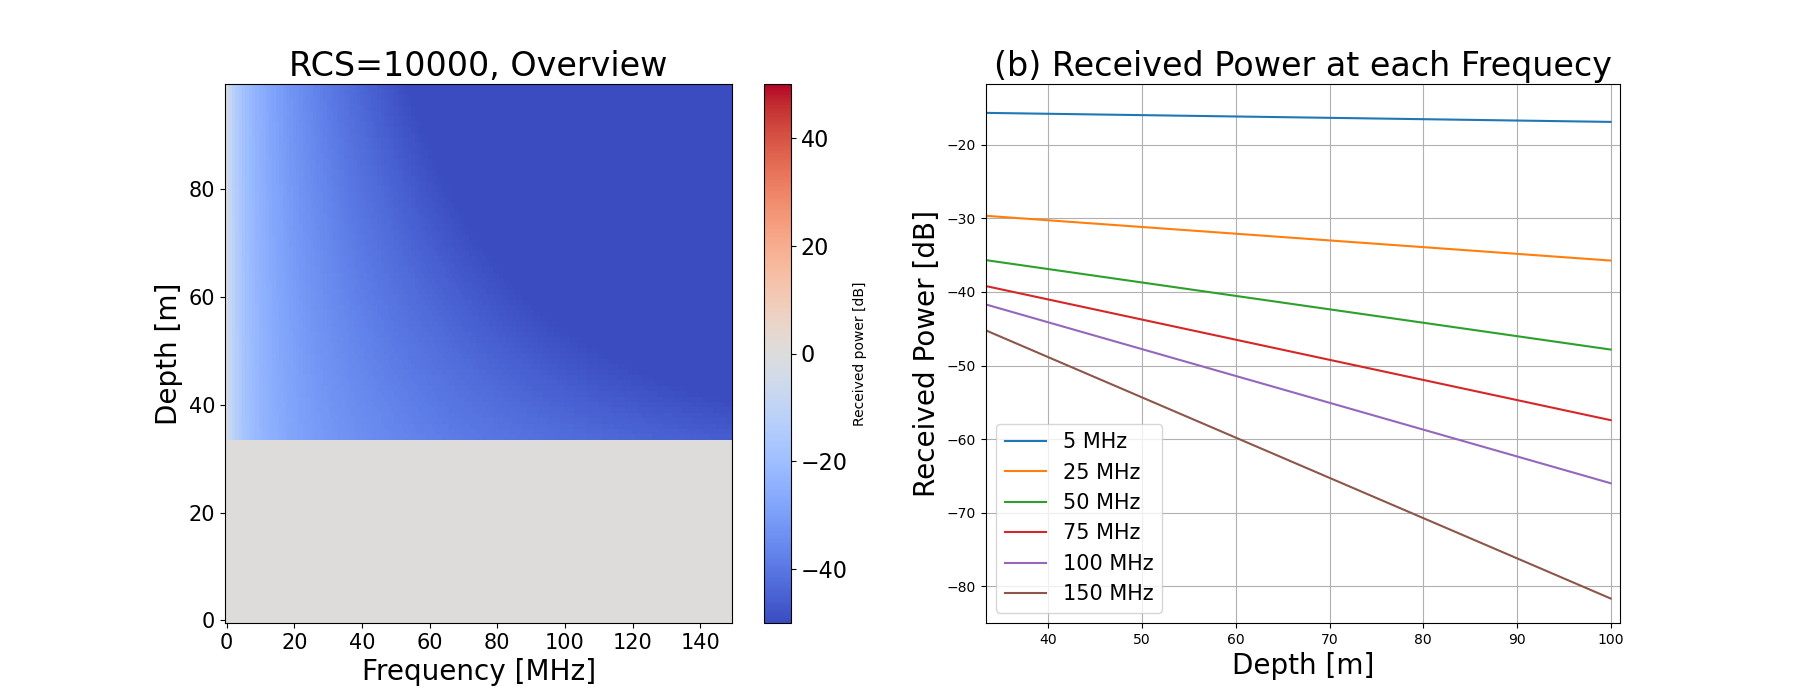
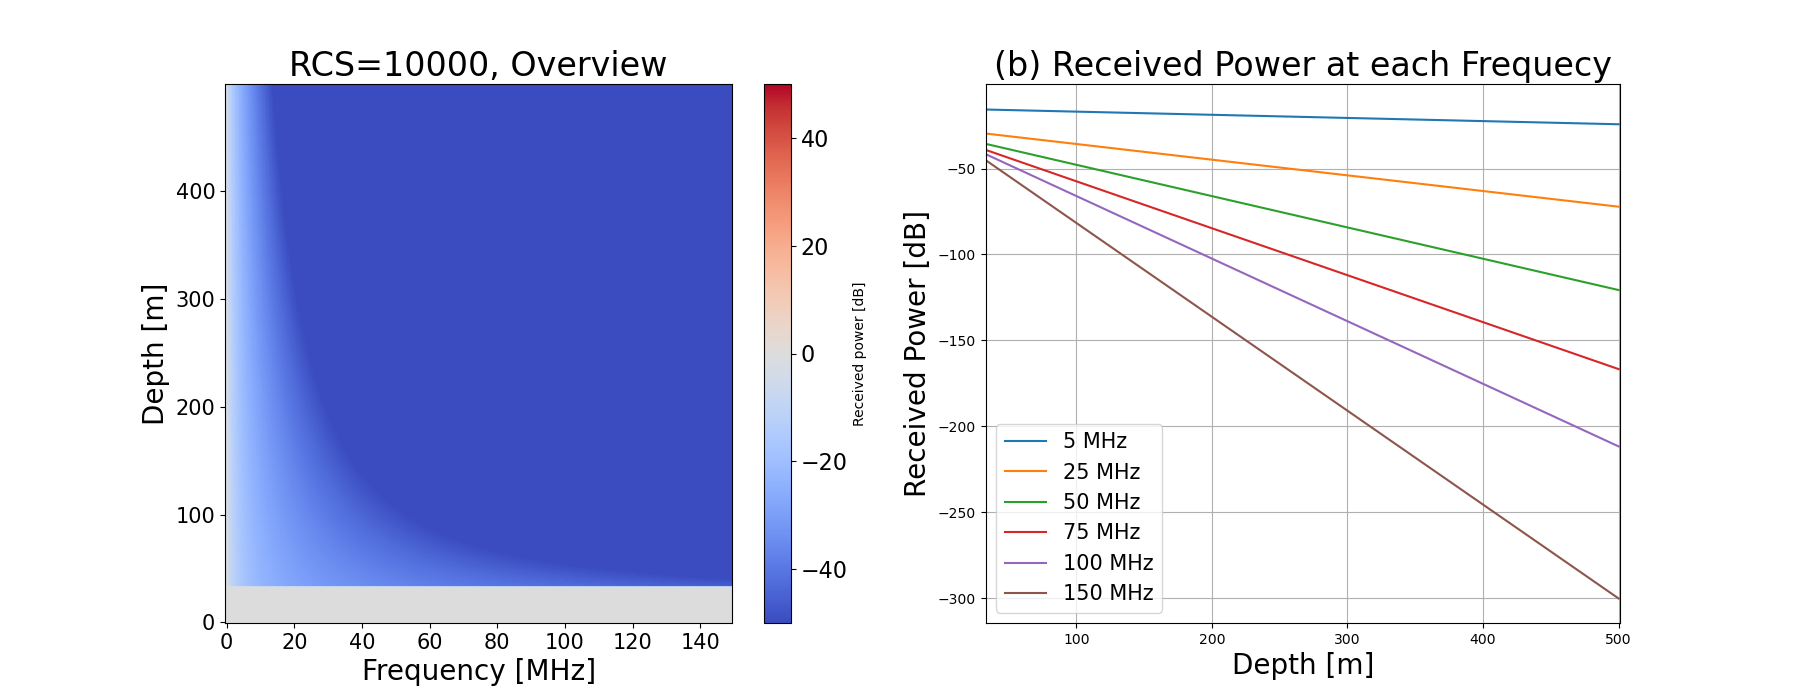
LRS特化の計算

diff --git a/detectability.py b/detectability.py
@@ -5,7 +5,7 @@ import matplotlib.pyplot as plt
 import numpy as np
 
 # 選択するパラメータファイルの指定
-params_file = "rover"  # LRS/RoPeR/RIMFAX/rover
+params_file = "LRS"  # LRS/RoPeR/RIMFAX/rover
 
 # パラメータファイルの読み込み
 with open('params/'+params_file + '_params.json') as f:
@@ -22,7 +22,7 @@ epsilon_r = params['epsilon_r']  # 地面の比誘電率
 epsilon_0 = params['epsilon_0']  # 真空の誘電率　
 loss_tangent = params['loss_tangent']  # 損失角（tan）
 #width = params['tube_width'] # チューブ幅
-width_array = [3, 10, 15, 30, 50, 60]
+width_array = [100, 500, 1000]
 for w in width_array:
     width = w
     RCS = width**2 # レーダー断面積

diff --git a/recieved_power_dB.py b/recieved_power_dB.py
@@ -23,7 +23,7 @@ epsilon_r = params['epsilon_r']  # 地面の比誘電率
 epsilon_0 = params['epsilon_0']  # 真空雨の誘電率　
 loss_tangent = params['loss_tangent']  # 損失角（tan）
 #width = params['tube_width'] # チューブの幅
-width_array = [100, 200, 250]
+width_array = [500, 1000, 1200]
 for w in width_array:
     width = w
     RCS = width**2 # レーダー断面積
